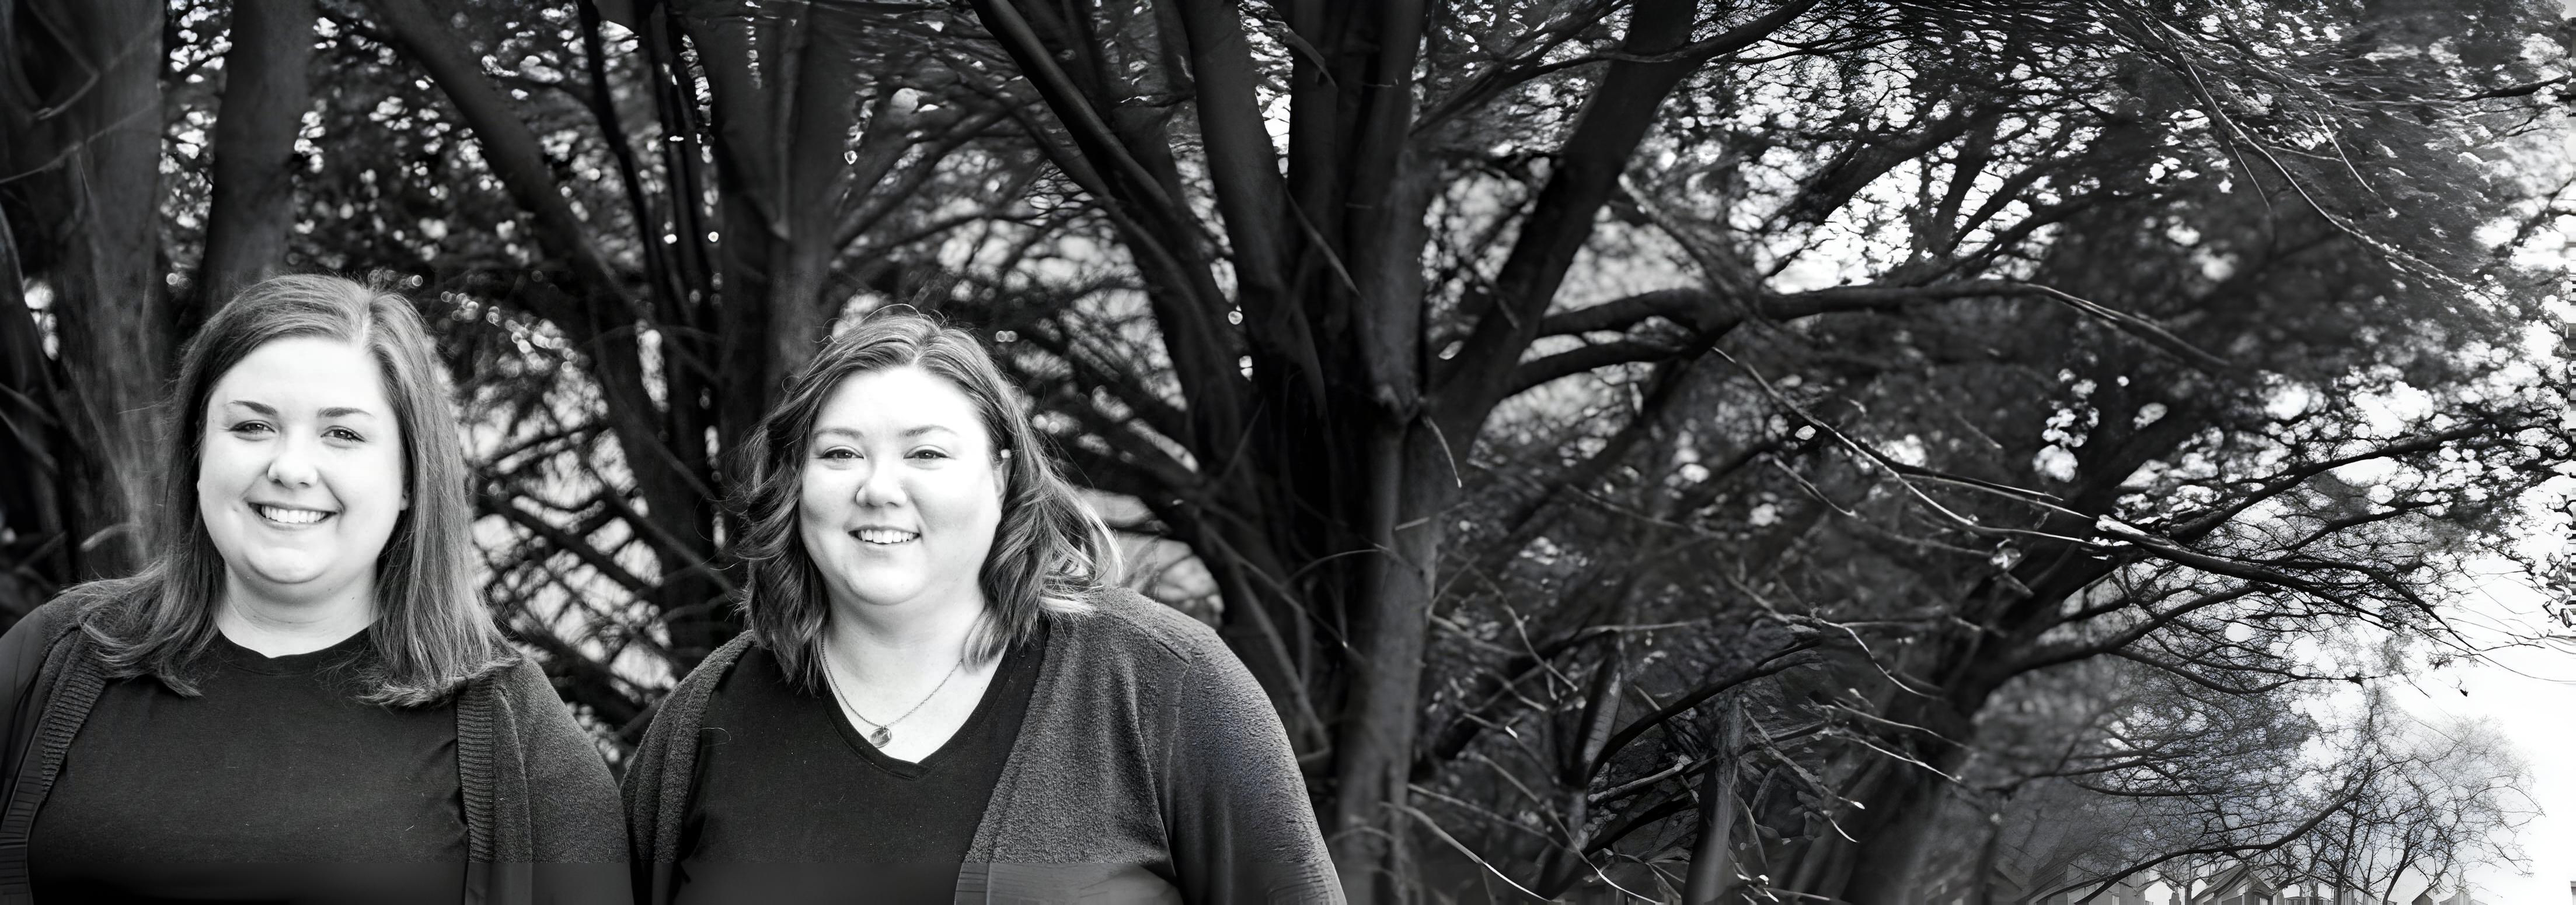
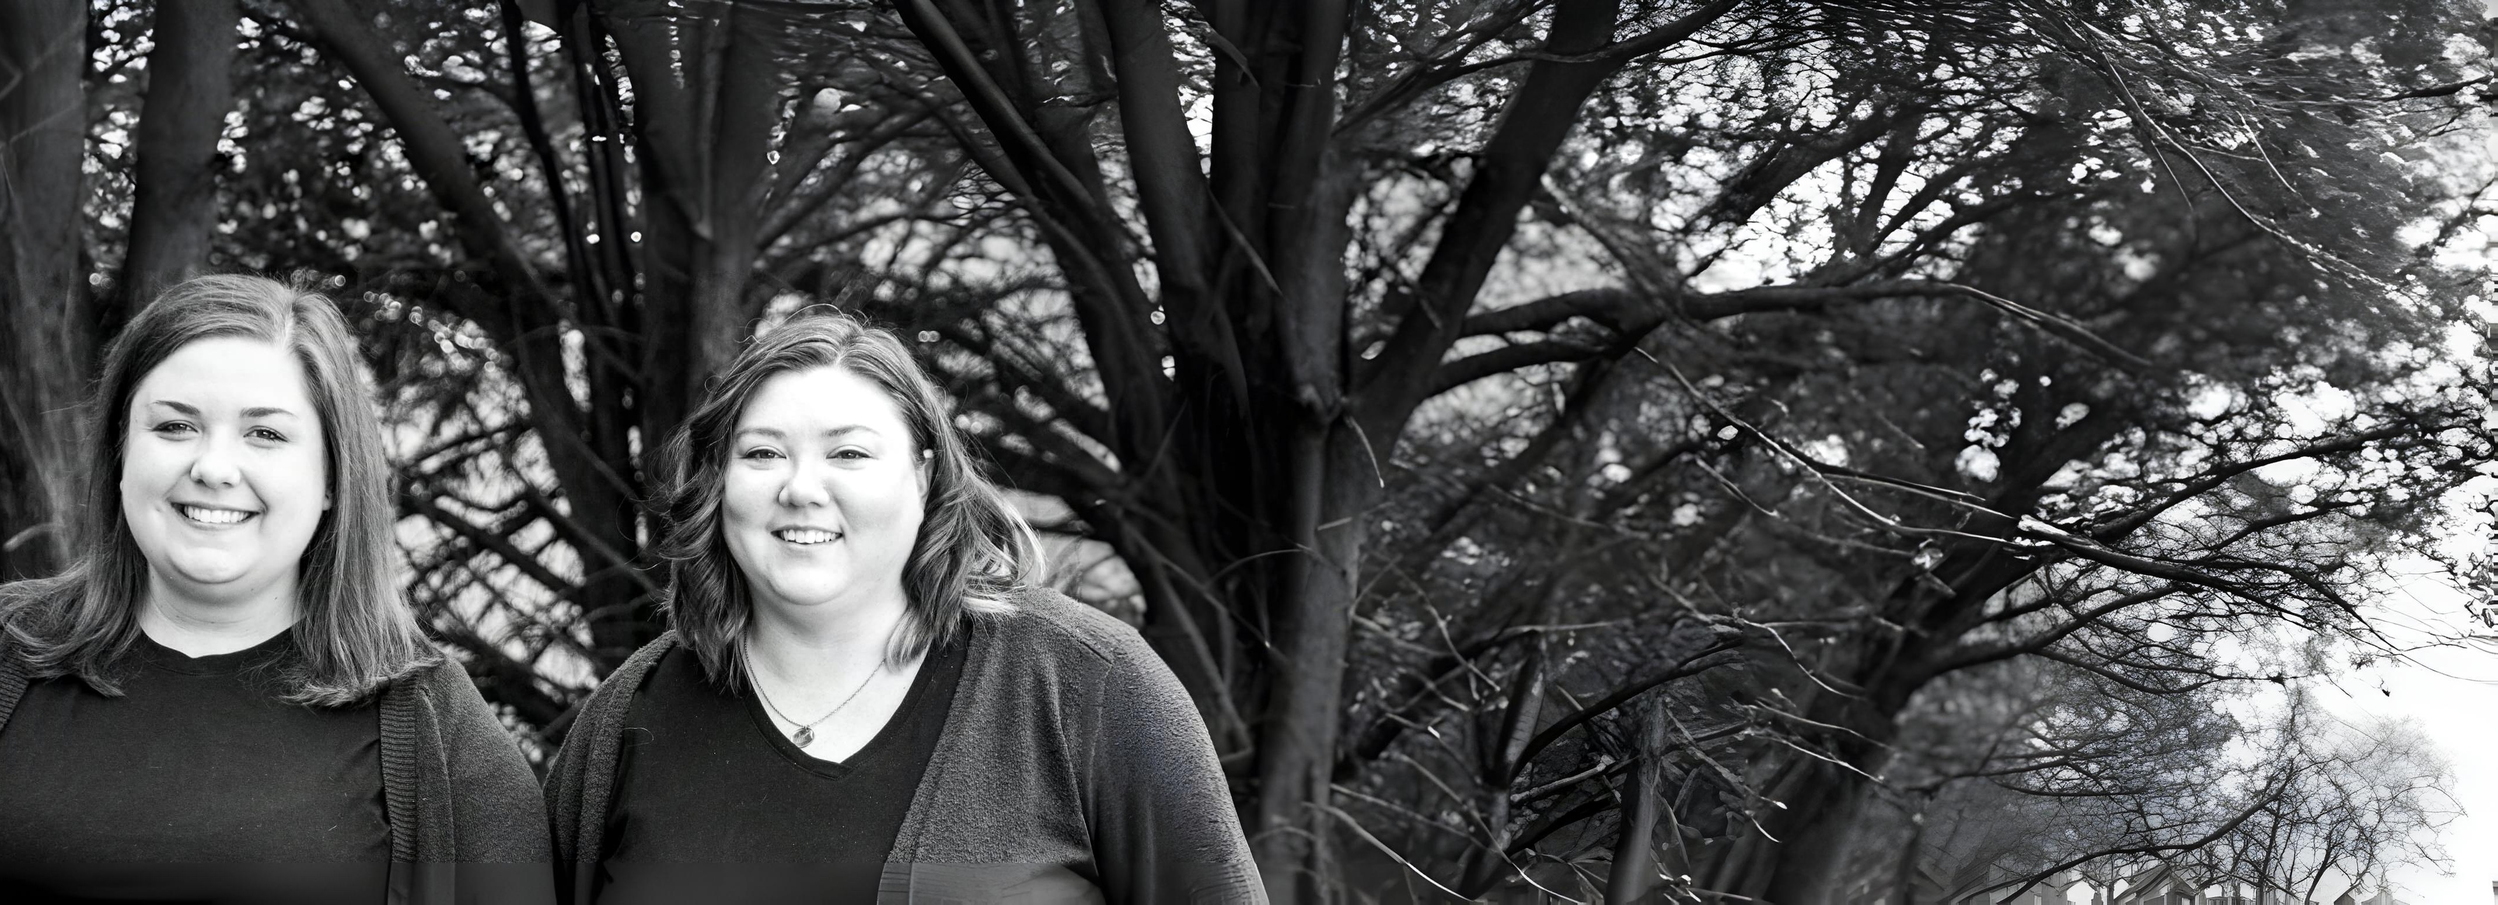
feat: team pages

diff --git a/glc-app/app/about-us/page.tsx b/glc-app/app/about-us/page.tsx
@@ -1,6 +1,9 @@
 import { Navigation } from "../components/navigation/navigation";
 import { Button } from "../components/Button";
-import group from "@/public/group_bw_wide-2.jpg"
+import group from "@/public/group_bw.jpeg";
+import group_wide from "@/public/group_bw_wide-2.jpg";
+import sunny from "@/public/sunny.jpg";
+import jacie from "@/public/jacie.jpg";
 import Image from "next/image";
 import HeroSplit from "../components/Hero/HeroSplit";
 
@@ -9,11 +12,15 @@ export default function Team() {
     <>
       <Navigation></Navigation>
       <HeroSplit
-        backgroundImage={group}
+        backgroundImage={group_wide}
         backgroundPosition='bottom left'
         backgroundSize='cover'
         position="end"
       >
+        <Image
+          src={group}
+          alt="Sunny Biggers and Jacie Currie, cofounders of Greenville Learning Collective"
+          className="mb-8 lg:hidden rounded-2xl"></Image>
         <h1 className="text-3xl md:text-5xl pb-8">Rooted in Care. <br></br> Inspired by You.</h1>
         <p className="mb-6 text-lg">At Greenville Learning Collective, we believe that meaningful change begins with connection. Our team is united by a passion for helping individuals of all ages navigate communication, learning, and developmental challenges with confidence and joy.</p>
 
@@ -25,15 +32,25 @@ export default function Team() {
           color="orange"
           href="#meet-sunny-and-jacie" />
       </HeroSplit>
-      <div className="flex" id="meet-sunny-and-jacie">
-        <Image
-          src={group}
-          alt="Sunny Biggers and Jacie Currie, the founding members of Greenville Learning Collective"
-          className="h-auto w-96 basis-1/2 object-cover" />
-        <div className="flex flex-col text-left basis-1/2 p-12 bg-[#f2ae21]">
-          <h1 className="text-5xl mb-8">Our Philosophy</h1>
-          <p className="text-lg">We believe that true growth happens through meaningful connections, creating a strong network of support. By embracing independence, our clients gain the confidence to evolve, explore new opportunities, and discover their full potential. Most importantly, we celebrate joy in every moment—both the small victories and the life-changing milestones—because a fulfilling life is built on both.</p>
+      <div className="px-12 md:py-24 " id="meet-sunny-and-jacie">
+        <h2 className="text-3xl md:text-5xl pb-8 text-center font-bold mb-12">Greenville Learning Collective</h2>
+        <div className="flex flex-col md:flex-row justify-center gap-24">
+          <div className="text-center">
+            <div className="w-full h-[400px] md:w-[300px] md:h-[350px] lg:w-[400px] lg:h-[500px] rounded-2xl sm:rounded-[20%] overflow-hidden mb-4 mx-auto">
+              <Image src={sunny} alt="" className="object-cover w-full h-full"></Image>
+            </div>
+            <Button text="Meet Sunny" href="/about-us/sunny"></Button>
+          </div>
+          <div className="text-center">
+            <div className="w-full h-[400px] md:w-[300px] md:h-[350px] lg:w-[400px] lg:h-[500px] rounded-2xl sm:rounded-[20%] overflow-hidden mb-4 mx-auto">
+              <Image src={jacie} alt="" className="object-cover w-full h-full"></Image>
+            </div>
+
+            <Button text="Meet Jacie" href="/about-us/jacie"></Button>
+          </div>
+
         </div>
+
       </div>
 
     </>

diff --git a/glc-app/app/about-us/jacie/page.tsx b/glc-app/app/about-us/jacie/page.tsx
@@ -1,0 +1,35 @@
+import { Navigation } from "../../components/navigation/navigation";
+import { Button } from "@/app/components/Button";
+
+import jacie from "@/public/jacie.jpg";
+import Image from "next/image";
+
+export default function Jacie() {
+  return (
+    <>
+      <Navigation></Navigation>
+      <div className="flex flex-col md:flex-row md:min-h-screen p-12">
+        <div className="image h-[400px] md:h-full md:basis-1/3 p-2">
+          <Image src={jacie} alt="Jacie Currie"
+            className="object-cover object-[50%_33%] md:object-center h-full w-full rounded-2xl"></Image>
+        </div>
+
+        <div className="content md:basis-2/3 flex flex-col align-center p-4 md:p-8">
+          <h1 className="text-3xl mb-2">Jacie Currie</h1>
+          <h2 className="text-xl font-bold mb-4">Co-Founder & Speech-Language Pathologist</h2>
+          <p className="mb-2 text-lg">Jacie is one of the founders and co-owners of Greenville Learning Collective, where she brings over 15 years of experience working with children and families to foster meaningful connection through communication. As a licensed speech-language pathologist, Jacie holds national certification from the American Speech-Language-Hearing Association (ASHA) through the Certificate of Clinical Competence (CCC-SLP).</p>
+          <p className="mb-2 text-lg">Jacie provides specialized support for a broad range of speech and language challenges, including developmental language delays, receptive and expressive language disorders, articulation and speech sound disorders, fluency, ADHD and executive functioning difficulties, literacy-related concerns, and autism. She is deeply committed to working with autistic individuals, helping them discover and develop their unique communication styles and reach their full potential.</p>
+          <p className="mb-2 text-lg">Jacie also has extensive experience in augmentative and alternative communication (AAC), using tools such as American Sign Language, visual supports, and speech-generating devices to create accessible and empowering communication opportunities for everyone.</p>
+          <p className="mb-4 text-lg">Through a compassionate, strengths-based approach, Jacie is dedicated to helping each person find their voice and supporting families on their journey toward greater connection and communication.</p>
+          <Button
+            text="Schedule a Consultation"
+            href="#"
+            classNames="w-fit "></Button>
+        </div>
+      </div>
+
+
+    </>
+
+  );
+}

diff --git a/glc-app/app/about-us/sunny/page.tsx b/glc-app/app/about-us/sunny/page.tsx
@@ -1,0 +1,32 @@
+import { Button } from "@/app/components/Button";
+import { Navigation } from "../../components/navigation/navigation";
+
+import sunny from "@/public/sunny.jpg";
+import Image from "next/image";
+
+
+export default function Sunny() {
+  return (
+    <>
+      <Navigation></Navigation>
+      <div className="flex flex-col md:flex-row md:h-screen">
+        <div className="image h-[400px] md:h-full md:basis-1/2 p-4">
+          <Image src={sunny} alt="Sunny Biggers"
+            className="object-cover object-[50%_30%] md:object-center h-full w-full rounded-2xl"></Image>
+        </div>
+
+        <div className="content basis-1/2 flex flex-col align-center p-4 md:p-24">
+          <h1 className="text-3xl mb-4">Sunny Biggers, credentials</h1>
+          <p className="mb-4">Sunny is a licensed psychoeducational specialist & Nationally Certified School Psychologist providing comprehensive evaluations and support.</p>
+          <Button
+            text="Schedule a Consultation"
+            href="#"
+            classNames="w-fit "></Button>
+        </div>
+      </div>
+
+
+    </>
+
+  );
+}

diff --git a/glc-app/app/components/Button.tsx b/glc-app/app/components/Button.tsx
@@ -3,16 +3,16 @@ type ButtonProps = {
   text: string;
   href: string;
   color?: 'yellow' | 'orange' | 'green';
-
+  classNames?: string;
 };
-export const Button = ({ text, href, color = 'orange' }: ButtonProps) => {
+export const Button = ({ text, href, color = 'orange', classNames = '' }: ButtonProps) => {
   const variants = {
     yellow: "bg-blue-600 hover:bg-blue-500",
     orange: "bg-[#d14d22]",
     green: "bg-red-600 hover:bg-red-500",
   };
   return (
-    <Link href={href} className="relative inline-block px-4 py-2 font-medium group">
+    <Link href={href} className={`relative inline-block px-4 py-2 font-medium group ${classNames}`}>
       <span className={`absolute inset-0 w-full h-full transition duration-300 ease-out transform translate-x-2 translate-y-2 ${variants[color]} group-hover:-translate-x-0 group-hover:-translate-y-0`}></span>
       <span className={`absolute inset-0 w-full h-full bg-[#fffaf6] transition duration-200 border-2 border-black group-hover:bg-[#d14d22]`}></span>
       <span className="relative text-black group-hover:text-black text-lg">{text}</span>

diff --git a/glc-app/app/components/Hero/Hero.tsx b/glc-app/app/components/Hero/Hero.tsx
@@ -16,7 +16,7 @@ export default function Hero({
   children }: HeroProps) {
   return (
     <HeroBackground backgroundImage={backgroundImage} backgroundPosition={backgroundPosition} backgroundSize={backgroundSize} position={position}>
-      <div className="hero__overlay bg-[#fffaf6] py-16 m-8 lg:m-36 rounded-2xl w-full lg:max-w-xl">
+      <div className="hero__overlay bg-[#fffaf6] py-2 md:py-16 m-8 lg:m-36 rounded-2xl w-full lg:max-w-xl">
         <div className="flex justify-center items-center">
           <div className="hero__text-container p-12">
             {children}
